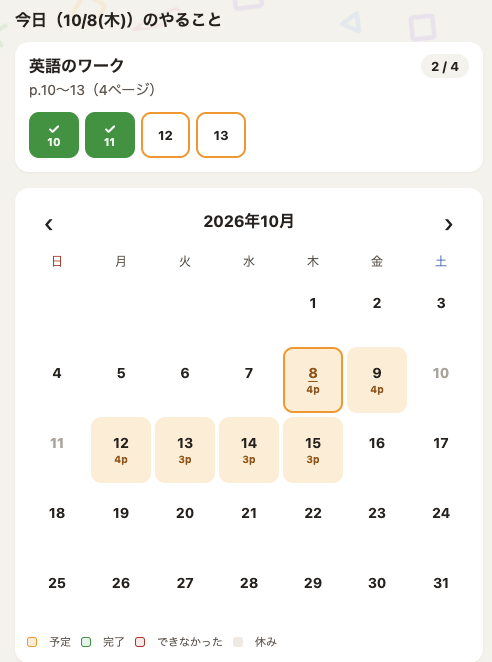
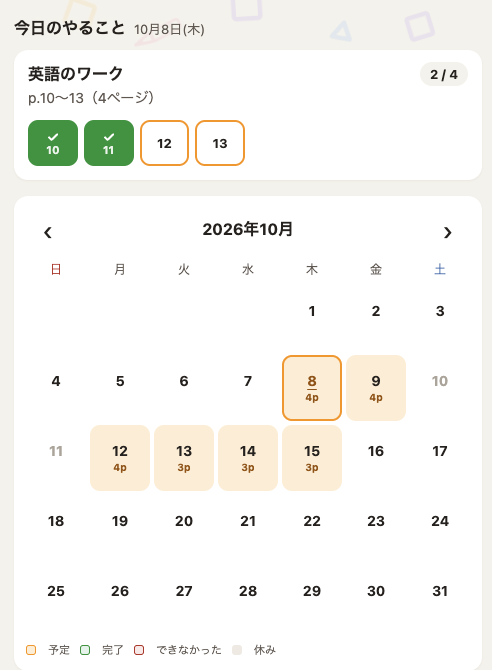
お子様用の計画画面の画像を、見出しの表記を直したアプリの画面に差し替え

diff --git a/index.html b/index.html
@@ -267,7 +267,7 @@
       <ul class="app-pair">
         <li>
           <figure>
-            <img src="assets/img/study-portal-plan-student.png" alt="Study Portal のお子様用の画面。今日やる英語のワーク10〜13ページのうち、10と11ページにチェックが付いている。下のカレンダーには、毎日やるページ数が表示されている" width="492" height="662" loading="lazy">
+            <img src="assets/img/study-portal-plan-student.png" alt="Study Portal のお子様用の画面。今日やる英語のワーク10〜13ページのうち、10と11ページにチェックが付いている。下のカレンダーには、毎日やるページ数が表示されている" width="492" height="670" loading="lazy">
             <figcaption><b>お子様のアプリ</b>今日やるページが表示され、終わったページをチェックしていきます。</figcaption>
           </figure>
         </li>
